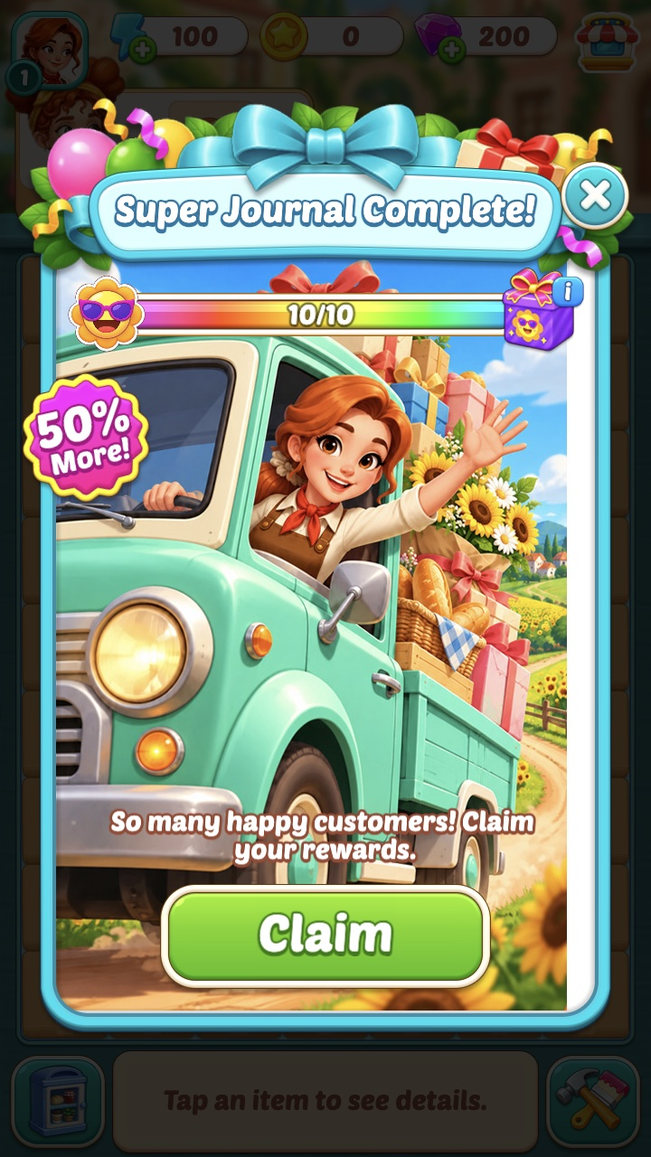
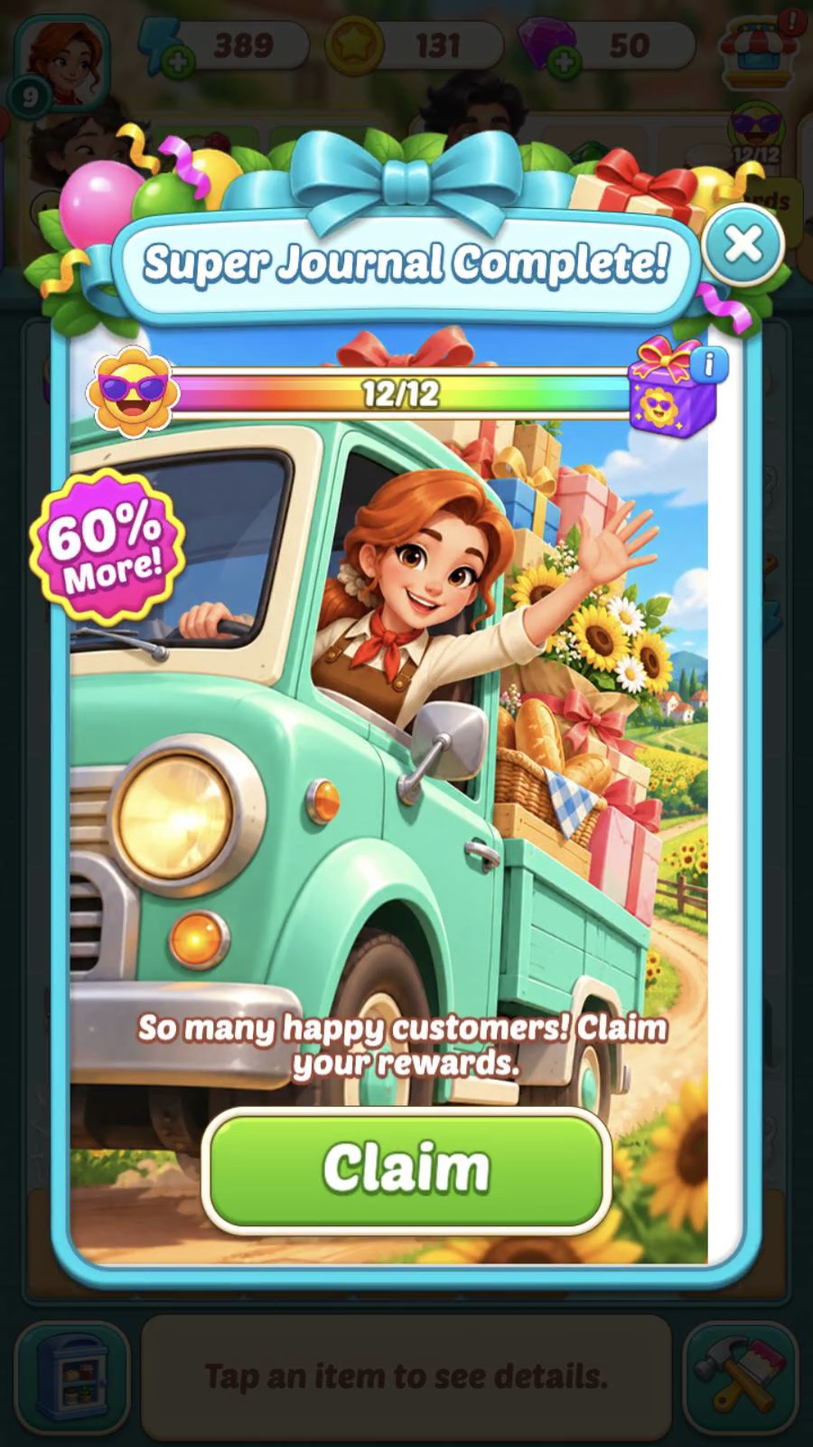
[Max] 팝업 아트 현황 오더 러시 현재 캡처 실제 플레이 프레임으로 교체

diff --git a/docs/story-merge-popup-art-need.html b/docs/story-merge-popup-art-need.html
@@ -110,7 +110,7 @@
 
       <section class="doc-section" id="g-lo-done" data-g="lo-done">
         <h2 class="doc-h2">교체 완료 <span class="doc-h2-sub">42종</span></h2>
-        <details class="pa-grp" open><summary><span class="pa-grp-n">오더 러시</span><span class="pa-grp-c">4종</span></summary><p class="pa-hold">캡처: QA 봇 11-26 · 새 계정 · 프리뷰 강제 오픈(PopupOrderRushStart 안내 · 달성 / PopupOrderRushSuperStart 슈퍼 달성 / PopupOrderRushStage 슈퍼 시작, 더미 값) · 클라 d60fe3cc · 판정 4/4 상태 레거시 0 (딤 제외) · 가이드 프리팹 2종 렌더 11-26 · 슈퍼 시작은 가이드 프리팹 없음 · 와이어프레임은 웹 기획서 화면 기획서 v1.34 RR 번호 · 원작 참고는 수집 안 함 · 보드 · 칩 · 연출 · 툴팁(RR-02/03/04/05/07/09/10/12/14)은 팝업이 아니라 뺌 · 일반 단계 재시작(RR-13 Begin)도 뺌</p><div class="pa-item" id="LO_rush_01"><h3 class="pa-h">RR-01 시작 팝업 <code>LO_rush_01</code> <span class="pill" style="--acc: var(--ok)">교체 완료</span></h3><div class="pa-cols"><div class="pa-col"><div class="pa-lbl">현재</div><figure class="shot"><img loading="lazy" src="img/popup-art/after__OrderRush_Info.jpg" alt="현재"><figcaption>QA 봇 · 11-26 · 새 계정 · 강제 오픈(더미 값) · info</figcaption></figure></div><div class="pa-col"><div class="pa-lbl">아트 가이드</div><figure class="shot"><img loading="lazy" src="img/popup-art/gpf__OrderRushStart__0.jpg" alt="아트 가이드"><figcaption>guide_Popup_Rosie's_Order_Journal_pop · 프리팹 렌더 11-26</figcaption></figure></div><div class="pa-col"><div class="pa-lbl">와이어프레임 (웹 기획서 v1.34)</div><figure class="shot"><img loading="lazy" src="img/popup-art/ded16b5e0cd95243.jpg" alt="와이어프레임 (웹 기획서 v1.34)"><figcaption>로지의 주문 수첩 · RR-01 이벤트 안내 팝업</figcaption></figure></div></div></div><div class="pa-item" id="LO_rush_02"><h3 class="pa-h">RR-08 슈퍼 시작 팝업 <code>LO_rush_02</code> <span class="pill" style="--acc: var(--ok)">교체 완료</span></h3><div class="pa-cols"><div class="pa-col"><div class="pa-lbl">현재</div><figure class="shot"><img loading="lazy" src="img/popup-art/after__OrderRush_SuperStart.jpg" alt="현재"><figcaption>QA 봇 · 11-26 · 새 계정 · 강제 오픈(더미 값) · superStart · 우상단 Rewards ready! 말풍선은 팝업이 아니라 인게임 칩</figcaption></figure></div><div class="pa-col"><div class="pa-lbl">아트 가이드</div><div class="pa-empty">가이드 프리팹 없음</div></div><div class="pa-col"><div class="pa-lbl">와이어프레임 (웹 기획서 v1.34)</div><figure class="shot"><img loading="lazy" src="img/popup-art/6df3421f490daf9d.jpg" alt="와이어프레임 (웹 기획서 v1.34)"><figcaption>로지의 주문 수첩 · RR-08 슈퍼 단계 시작 안내</figcaption></figure></div></div></div><div class="pa-item" id="LO_rush_03"><h3 class="pa-h">RR-06 전환 팝업 <code>LO_rush_03</code> <span class="pill" style="--acc: var(--ok)">교체 완료</span></h3><div class="pa-cols"><div class="pa-col"><div class="pa-lbl">현재</div><figure class="shot"><img loading="lazy" src="img/popup-art/after__OrderRush_Complete.jpg" alt="현재"><figcaption>QA 봇 · 11-26 · 새 계정 · 강제 오픈(더미 값) · complete</figcaption></figure></div><div class="pa-col"><div class="pa-lbl">아트 가이드</div><figure class="shot"><img loading="lazy" src="img/popup-art/gpf__OrderRushStart__0.jpg" alt="아트 가이드"><figcaption>guide_Popup_Rosie's_Order_Journal_pop · 프리팹 렌더 11-26 (같은 프리팹, 문구만 다름)</figcaption></figure></div><div class="pa-col"><div class="pa-lbl">와이어프레임 (웹 기획서 v1.34)</div><figure class="shot"><img loading="lazy" src="img/popup-art/cbba7b70822f6b88.jpg" alt="와이어프레임 (웹 기획서 v1.34)"><figcaption>로지의 주문 수첩 · RR-06 목표 달성 팝업 · 보상 수령</figcaption></figure></div></div></div><div class="pa-item" id="LO_rush_04"><h3 class="pa-h">RR-11 슈퍼 전환 팝업 <code>LO_rush_04</code> <span class="pill" style="--acc: var(--ok)">교체 완료</span></h3><div class="pa-cols"><div class="pa-col"><div class="pa-lbl">현재</div><figure class="shot"><img loading="lazy" src="img/popup-art/after__OrderRush_SuperComplete.jpg" alt="현재"><figcaption>QA 봇 · 11-26 · 새 계정 · 강제 오픈(더미 값) · superComplete</figcaption></figure></div><div class="pa-col"><div class="pa-lbl">아트 가이드</div><figure class="shot"><img loading="lazy" src="img/popup-art/gpf__OrderRushSuperComplete__0.jpg" alt="아트 가이드"><figcaption>guide_Popup_Rosie's_Order_Journal_super_pop · 프리팹 렌더 11-26</figcaption></figure></div><div class="pa-col"><div class="pa-lbl">와이어프레임 (웹 기획서 v1.34)</div><figure class="shot"><img loading="lazy" src="img/popup-art/74b2749e15a4dfdd.jpg" alt="와이어프레임 (웹 기획서 v1.34)"><figcaption>로지의 주문 수첩 · RR-11 슈퍼 달성 팝업 · 보상 수령</figcaption></figure></div></div></div></details>
+        <details class="pa-grp" open><summary><span class="pa-grp-n">오더 러시</span><span class="pa-grp-c">4종</span></summary><p class="pa-hold">캡처: QA 봇 11-26 · 오더 러시 전체 플로우 녹화(실제 흐름: 참가 안내 -> 납품 -> 칩 탭 -> 달성 -> Claim -> 슈퍼 시작 -> 슈퍼 달성)에서 팝업이 뜬 프레임 · 시드는 스마일 수치 · 납품 요구품뿐 · 클라 d60fe3cc · 판정은 강제 오픈 4/4 상태 레거시 0 (딤 제외) · 가이드 프리팹 2종 렌더 11-26 · 슈퍼 시작은 가이드 프리팹 없음 · 와이어프레임은 웹 기획서 화면 기획서 v1.34 RR 번호 · 원작 참고는 수집 안 함 · 보드 · 칩 · 연출 · 툴팁(RR-02/03/04/05/07/09/10/12/14)은 팝업이 아니라 뺌 · 일반 단계 재시작(RR-13 Begin)도 뺌</p><div class="pa-item" id="LO_rush_01"><h3 class="pa-h">RR-01 시작 팝업 <code>LO_rush_01</code> <span class="pill" style="--acc: var(--ok)">교체 완료</span></h3><div class="pa-cols"><div class="pa-col"><div class="pa-lbl">현재</div><figure class="shot"><img loading="lazy" src="img/popup-art/after__OrderRush_Info.jpg" alt="현재"><figcaption>QA 봇 · 11-26 · 실제 플레이 흐름 녹화에서 뽑은 프레임 · info</figcaption></figure></div><div class="pa-col"><div class="pa-lbl">아트 가이드</div><figure class="shot"><img loading="lazy" src="img/popup-art/gpf__OrderRushStart__0.jpg" alt="아트 가이드"><figcaption>guide_Popup_Rosie's_Order_Journal_pop · 프리팹 렌더 11-26</figcaption></figure></div><div class="pa-col"><div class="pa-lbl">와이어프레임 (웹 기획서 v1.34)</div><figure class="shot"><img loading="lazy" src="img/popup-art/ded16b5e0cd95243.jpg" alt="와이어프레임 (웹 기획서 v1.34)"><figcaption>로지의 주문 수첩 · RR-01 이벤트 안내 팝업</figcaption></figure></div></div></div><div class="pa-item" id="LO_rush_02"><h3 class="pa-h">RR-08 슈퍼 시작 팝업 <code>LO_rush_02</code> <span class="pill" style="--acc: var(--ok)">교체 완료</span></h3><div class="pa-cols"><div class="pa-col"><div class="pa-lbl">현재</div><figure class="shot"><img loading="lazy" src="img/popup-art/after__OrderRush_SuperStart.jpg" alt="현재"><figcaption>QA 봇 · 11-26 · 실제 플레이 흐름 녹화에서 뽑은 프레임 · superStart · 우상단 Rewards ready! 말풍선은 팝업이 아니라 인게임 칩</figcaption></figure></div><div class="pa-col"><div class="pa-lbl">아트 가이드</div><div class="pa-empty">가이드 프리팹 없음</div></div><div class="pa-col"><div class="pa-lbl">와이어프레임 (웹 기획서 v1.34)</div><figure class="shot"><img loading="lazy" src="img/popup-art/6df3421f490daf9d.jpg" alt="와이어프레임 (웹 기획서 v1.34)"><figcaption>로지의 주문 수첩 · RR-08 슈퍼 단계 시작 안내</figcaption></figure></div></div></div><div class="pa-item" id="LO_rush_03"><h3 class="pa-h">RR-06 전환 팝업 <code>LO_rush_03</code> <span class="pill" style="--acc: var(--ok)">교체 완료</span></h3><div class="pa-cols"><div class="pa-col"><div class="pa-lbl">현재</div><figure class="shot"><img loading="lazy" src="img/popup-art/after__OrderRush_Complete.jpg" alt="현재"><figcaption>QA 봇 · 11-26 · 실제 플레이 흐름 녹화에서 뽑은 프레임 · complete</figcaption></figure></div><div class="pa-col"><div class="pa-lbl">아트 가이드</div><figure class="shot"><img loading="lazy" src="img/popup-art/gpf__OrderRushStart__0.jpg" alt="아트 가이드"><figcaption>guide_Popup_Rosie's_Order_Journal_pop · 프리팹 렌더 11-26 (같은 프리팹, 문구만 다름)</figcaption></figure></div><div class="pa-col"><div class="pa-lbl">와이어프레임 (웹 기획서 v1.34)</div><figure class="shot"><img loading="lazy" src="img/popup-art/cbba7b70822f6b88.jpg" alt="와이어프레임 (웹 기획서 v1.34)"><figcaption>로지의 주문 수첩 · RR-06 목표 달성 팝업 · 보상 수령</figcaption></figure></div></div></div><div class="pa-item" id="LO_rush_04"><h3 class="pa-h">RR-11 슈퍼 전환 팝업 <code>LO_rush_04</code> <span class="pill" style="--acc: var(--ok)">교체 완료</span></h3><div class="pa-cols"><div class="pa-col"><div class="pa-lbl">현재</div><figure class="shot"><img loading="lazy" src="img/popup-art/after__OrderRush_SuperComplete.jpg" alt="현재"><figcaption>QA 봇 · 11-26 · 실제 플레이 흐름 녹화에서 뽑은 프레임 · superComplete</figcaption></figure></div><div class="pa-col"><div class="pa-lbl">아트 가이드</div><figure class="shot"><img loading="lazy" src="img/popup-art/gpf__OrderRushSuperComplete__0.jpg" alt="아트 가이드"><figcaption>guide_Popup_Rosie's_Order_Journal_super_pop · 프리팹 렌더 11-26</figcaption></figure></div><div class="pa-col"><div class="pa-lbl">와이어프레임 (웹 기획서 v1.34)</div><figure class="shot"><img loading="lazy" src="img/popup-art/74b2749e15a4dfdd.jpg" alt="와이어프레임 (웹 기획서 v1.34)"><figcaption>로지의 주문 수첩 · RR-11 슈퍼 달성 팝업 · 보상 수령</figcaption></figure></div></div></div></details>
         <details class="pa-grp" open><summary><span class="pa-grp-n">공방 수레 경주</span><span class="pa-grp-c">10종</span></summary><p class="pa-hold">캡처: QA 봇 11-19 · 새 계정 · 프리뷰 강제 오픈(PopupRace · PopupRaceStart · PopupRaceHowTo · PopupBoxReward 보상 수령 · 머지 점수 문구, 더미 값) · 클라 1faf49d0 + 미커밋 작업 · 판정 16/16 상태 레거시 0 (딤 제외) · 가이드 프리팹 4종 렌더 11-19 · 머지 점수 문구(197)는 가이드 프리팹 없음</p><div class="pa-item" id="LO_cart_01"><h3 class="pa-h">193 이벤트 시작 <code>LO_cart_01</code> <span class="pill" style="--acc: var(--ok)">교체 완료</span></h3><div class="pa-cols"><div class="pa-col"><div class="pa-lbl">현재</div><figure class="shot"><img loading="lazy" src="img/popup-art/after__Race_Start.jpg" alt="현재"><figcaption>QA 봇 · 11-19 · 새 계정 · 강제 오픈(더미 값)</figcaption></figure></div><div class="pa-col"><div class="pa-lbl">아트 가이드</div><figure class="shot"><img loading="lazy" src="img/popup-art/gpf__RaceStart__0.jpg" alt="아트 가이드"><figcaption>guide_Popup_rosewood_cart_race_start · 프리팹 렌더 11-19</figcaption></figure></div><div class="pa-col"><div class="pa-lbl">와이어프레임 (웹 기획서 10-25판)</div><figure class="shot"><img loading="lazy" src="img/popup-art/e87f1d6fa0e762e9.jpg" alt="와이어프레임 (웹 기획서 10-25판)"><figcaption>공방 수레 경주 · 193 이벤트 시작</figcaption></figure></div><div class="pa-col"><div class="pa-lbl">원작 참고</div><figure class="shot"><img loading="lazy" src="img/popup-art/8e1e5974a9ec1ba3.jpg" alt="원작 참고"><figcaption>원작 참고</figcaption></figure></div></div></div><div class="pa-item" id="LO_cart_02"><h3 class="pa-h">194 진행 방법 <code>LO_cart_02</code> <span class="pill" style="--acc: var(--ok)">교체 완료</span></h3><div class="pa-cols"><div class="pa-col"><div class="pa-lbl">현재</div><figure class="shot"><img loading="lazy" src="img/popup-art/after__Race_HowTo.jpg" alt="현재"><figcaption>QA 봇 · 11-19 · 새 계정 · 강제 오픈(더미 값)</figcaption></figure></div><div class="pa-col"><div class="pa-lbl">아트 가이드</div><figure class="shot"><img loading="lazy" src="img/popup-art/gpf__RaceHowTo__0.jpg" alt="아트 가이드"><figcaption>guide_Popup_rosewood_cart_race_howto · 프리팹 렌더 11-19</figcaption></figure></div><div class="pa-col"><div class="pa-lbl">와이어프레임 (웹 기획서 10-25판)</div><figure class="shot"><img loading="lazy" src="img/popup-art/a32aa325667d979b.jpg" alt="와이어프레임 (웹 기획서 10-25판)"><figcaption>공방 수레 경주 · 194 진행 방법</figcaption></figure></div><div class="pa-col"><div class="pa-lbl">원작 참고</div><figure class="shot"><img loading="lazy" src="img/popup-art/b28bee6a9d59f4a0.jpg" alt="원작 참고"><figcaption>원작 참고</figcaption></figure></div></div></div><div class="pa-item" id="LO_cart_03"><h3 class="pa-h">15 참가자 배치 <code>LO_cart_03</code> <span class="pill" style="--acc: var(--ok)">교체 완료</span></h3><div class="pa-cols"><div class="pa-col"><div class="pa-lbl">현재</div><figure class="shot"><img loading="lazy" src="img/popup-art/after__Race_Track_Wait.jpg" alt="현재"><figcaption>QA 봇 · 11-19 · 새 계정 · 강제 오픈(더미 값)</figcaption></figure></div><div class="pa-col"><div class="pa-lbl">아트 가이드</div><figure class="shot"><img loading="lazy" src="img/popup-art/gpf__RaceGame__0.jpg" alt="아트 가이드"><figcaption>guide_Popup_rosewood_cart_race_game · 프리팹 렌더 11-19</figcaption></figure></div><div class="pa-col"><div class="pa-lbl">와이어프레임 (웹 기획서 10-25판)</div><figure class="shot"><img loading="lazy" src="img/popup-art/fcc865399c904d79.jpg" alt="와이어프레임 (웹 기획서 10-25판)"><figcaption>공방 수레 경주 · 15 참가자 배치</figcaption></figure></div><div class="pa-col"><div class="pa-lbl">원작 참고</div><figure class="shot"><img loading="lazy" src="img/popup-art/657d9401828232a8.jpg" alt="원작 참고"><figcaption>원작 참고</figcaption></figure></div></div></div><div class="pa-item" id="LO_cart_04"><h3 class="pa-h">18 진행 <code>LO_cart_04</code> <span class="pill" style="--acc: var(--ok)">교체 완료</span></h3><div class="pa-cols"><div class="pa-col"><div class="pa-lbl">현재</div><figure class="shot"><img loading="lazy" src="img/popup-art/after__Race_Track_Run.jpg" alt="현재"><figcaption>QA 봇 · 11-19 · 새 계정 · 강제 오픈(더미 값) · 진행 중 점수 상태</figcaption></figure><figure class="shot"><img loading="lazy" src="img/popup-art/after__Race_Track_Bubble.jpg" alt="현재"><figcaption>QA 봇 · 11-19 · 새 계정 · 강제 오픈(더미 값) · 1위 상자를 눌러 보상 말풍선을 연 상태</figcaption></figure></div><div class="pa-col"><div class="pa-lbl">아트 가이드</div><figure class="shot"><img loading="lazy" src="img/popup-art/gpf__RaceGame__0.jpg" alt="아트 가이드"><figcaption>guide_Popup_rosewood_cart_race_game · 프리팹 렌더 11-19</figcaption></figure></div><div class="pa-col"><div class="pa-lbl">와이어프레임 (웹 기획서 10-25판)</div><figure class="shot"><img loading="lazy" src="img/popup-art/458a6ebece7de415.jpg" alt="와이어프레임 (웹 기획서 10-25판)"><figcaption>공방 수레 경주 · 18 진행</figcaption></figure></div><div class="pa-col"><div class="pa-lbl">원작 참고</div><figure class="shot"><img loading="lazy" src="img/popup-art/a37f45a411835faa.jpg" alt="원작 참고"><figcaption>원작 참고</figcaption></figure></div></div></div><div class="pa-item" id="LO_cart_05"><h3 class="pa-h">197 점수 획득 <code>LO_cart_05</code> <span class="pill" style="--acc: var(--ok)">교체 완료</span></h3><p class="pa-hold">머지할 때 칸 위에 뜨는 토큰 아이콘 + 점수 문구 · 가이드 프리팹 없음</p><div class="pa-cols"><div class="pa-col"><div class="pa-lbl">현재</div><figure class="shot"><img loading="lazy" src="img/popup-art/after__Race_MergeScore.jpg" alt="현재"><figcaption>QA 봇 · 11-19 · 새 계정 · 머지 점수 문구 강제 표시(+5, 더미 값) · 클라 미커밋 작업 반영</figcaption></figure></div><div class="pa-col"><div class="pa-lbl">아트 가이드</div><div class="pa-empty">가이드 프리팹 없음</div></div><div class="pa-col"><div class="pa-lbl">와이어프레임 (웹 기획서 10-25판)</div><figure class="shot"><img loading="lazy" src="img/popup-art/ea15af65700e3bf4.jpg" alt="와이어프레임 (웹 기획서 10-25판)"><figcaption>공방 수레 경주 · 197 점수 획득</figcaption></figure></div><div class="pa-col"><div class="pa-lbl">원작 참고</div><figure class="shot"><img loading="lazy" src="img/popup-art/5d54fc21d32e83c2.jpg" alt="원작 참고"><figcaption>원작 참고</figcaption></figure></div></div></div><div class="pa-item" id="LO_cart_06"><h3 class="pa-h">153 순위 확정 <code>LO_cart_06</code> <span class="pill" style="--acc: var(--ok)">교체 완료</span></h3><div class="pa-cols"><div class="pa-col"><div class="pa-lbl">현재</div><figure class="shot"><img loading="lazy" src="img/popup-art/after__Race_Track_Rank.jpg" alt="현재"><figcaption>QA 봇 · 11-19 · 새 계정 · 강제 오픈(더미 값) · 3명 도착 · 순위 레일 · 순위 상자</figcaption></figure></div><div class="pa-col"><div class="pa-lbl">아트 가이드</div><figure class="shot"><img loading="lazy" src="img/popup-art/gpf__RaceGame__0.jpg" alt="아트 가이드"><figcaption>guide_Popup_rosewood_cart_race_game · 프리팹 렌더 11-19</figcaption></figure></div><div class="pa-col"><div class="pa-lbl">와이어프레임 (웹 기획서 10-25판)</div><figure class="shot"><img loading="lazy" src="img/popup-art/d6db3491e0efc9c2.jpg" alt="와이어프레임 (웹 기획서 10-25판)"><figcaption>공방 수레 경주 · 153 순위 확정</figcaption></figure></div><div class="pa-col"><div class="pa-lbl">원작 참고</div><figure class="shot"><img loading="lazy" src="img/popup-art/15899aa27c846ef2.jpg" alt="원작 참고"><figcaption>원작 참고</figcaption></figure></div></div></div><div class="pa-item" id="LO_cart_07"><h3 class="pa-h">19 보상 수령 <code>LO_cart_07</code> <span class="pill" style="--acc: var(--ok)">교체 완료</span></h3><div class="pa-cols"><div class="pa-col"><div class="pa-lbl">현재</div><figure class="shot"><img loading="lazy" src="img/popup-art/after__Race_Reward.jpg" alt="현재"><figcaption>QA 봇 · 11-19 · 새 계정 · 강제 오픈(더미 값)</figcaption></figure></div><div class="pa-col"><div class="pa-lbl">아트 가이드</div><figure class="shot"><img loading="lazy" src="img/popup-art/gpf__RaceReward__0.jpg" alt="아트 가이드"><figcaption>guide_Popup_rosewood_cart_race_reward · 프리팹 렌더 11-19</figcaption></figure></div><div class="pa-col"><div class="pa-lbl">와이어프레임 (웹 기획서 10-25판)</div><figure class="shot"><img loading="lazy" src="img/popup-art/27f3da3f89acdf4f.jpg" alt="와이어프레임 (웹 기획서 10-25판)"><figcaption>공방 수레 경주 · 19 보상 수령</figcaption></figure></div><div class="pa-col"><div class="pa-lbl">원작 참고</div><figure class="shot"><img loading="lazy" src="img/popup-art/56f8d067cec97025.jpg" alt="원작 참고"><figcaption>원작 참고</figcaption></figure></div></div></div><div class="pa-item" id="LO_cart_08"><h3 class="pa-h">198 다음 라운드 시작 <code>LO_cart_08</code> <span class="pill" style="--acc: var(--ok)">교체 완료</span></h3><div class="pa-cols"><div class="pa-col"><div class="pa-lbl">현재</div><figure class="shot"><img loading="lazy" src="img/popup-art/after__Race_NextRound.jpg" alt="현재"><figcaption>QA 봇 · 11-19 · 새 계정 · 강제 오픈(더미 값)</figcaption></figure></div><div class="pa-col"><div class="pa-lbl">아트 가이드</div><figure class="shot"><img loading="lazy" src="img/popup-art/gpf__RaceStart__0.jpg" alt="아트 가이드"><figcaption>guide_Popup_rosewood_cart_race_start · 프리팹 렌더 11-19</figcaption></figure></div><div class="pa-col"><div class="pa-lbl">와이어프레임 (웹 기획서 10-25판)</div><figure class="shot"><img loading="lazy" src="img/popup-art/46f639c9a84bd0e2.jpg" alt="와이어프레임 (웹 기획서 10-25판)"><figcaption>공방 수레 경주 · 198 다음 라운드 시작</figcaption></figure></div><div class="pa-col"><div class="pa-lbl">원작 참고</div><figure class="shot"><img loading="lazy" src="img/popup-art/1265ebe7c74a9f32.jpg" alt="원작 참고"><figcaption>원작 참고</figcaption></figure></div></div></div><div class="pa-item" id="LO_cart_09"><h3 class="pa-h">199 다음 라운드 배치 <code>LO_cart_09</code> <span class="pill" style="--acc: var(--ok)">교체 완료</span></h3><div class="pa-cols"><div class="pa-col"><div class="pa-lbl">현재</div><figure class="shot"><img loading="lazy" src="img/popup-art/after__Race_Track_NextRound.jpg" alt="현재"><figcaption>QA 봇 · 11-19 · 새 계정 · 강제 오픈(더미 값)</figcaption></figure></div><div class="pa-col"><div class="pa-lbl">아트 가이드</div><figure class="shot"><img loading="lazy" src="img/popup-art/gpf__RaceGame__0.jpg" alt="아트 가이드"><figcaption>guide_Popup_rosewood_cart_race_game · 프리팹 렌더 11-19</figcaption></figure></div><div class="pa-col"><div class="pa-lbl">와이어프레임 (웹 기획서 10-25판)</div><figure class="shot"><img loading="lazy" src="img/popup-art/3bd345f6e61a5a8b.jpg" alt="와이어프레임 (웹 기획서 10-25판)"><figcaption>공방 수레 경주 · 199 다음 라운드 배치</figcaption></figure></div><div class="pa-col"><div class="pa-lbl">원작 참고</div><figure class="shot"><img loading="lazy" src="img/popup-art/c01e99975705889d.jpg" alt="원작 참고"><figcaption>원작 참고</figcaption></figure></div></div></div><div class="pa-item" id="LO_cart_10"><h3 class="pa-h">21 이벤트 종료 / 전체 라운드 결과 <code>LO_cart_10</code> <span class="pill" style="--acc: var(--ok)">교체 완료</span></h3><div class="pa-cols"><div class="pa-col"><div class="pa-lbl">현재</div><figure class="shot"><img loading="lazy" src="img/popup-art/after__Race_Over.jpg" alt="현재"><figcaption>QA 봇 · 11-19 · 새 계정 · 강제 오픈(더미 값)</figcaption></figure></div><div class="pa-col"><div class="pa-lbl">아트 가이드</div><figure class="shot"><img loading="lazy" src="img/popup-art/gpf__RaceStart__0.jpg" alt="아트 가이드"><figcaption>guide_Popup_rosewood_cart_race_start · 프리팹 렌더 11-19</figcaption></figure></div><div class="pa-col"><div class="pa-lbl">와이어프레임 (웹 기획서 10-25판)</div><figure class="shot"><img loading="lazy" src="img/popup-art/1d1e034f2191a1cb.jpg" alt="와이어프레임 (웹 기획서 10-25판)"><figcaption>공방 수레 경주 · 21 이벤트 종료 / 전체 라운드 결과</figcaption></figure></div><div class="pa-col"><div class="pa-lbl">원작 참고</div><figure class="shot"><img loading="lazy" src="img/popup-art/882f166f2e8f7492.jpg" alt="원작 참고"><figcaption>원작 참고</figcaption></figure></div></div></div></details>
         <details class="pa-grp" open><summary><span class="pa-grp-n">다이앤 마켓</span><span class="pa-grp-c">10종</span></summary><p class="pa-hold">캡처: QA 봇 11-24 · 새 계정 · 프리뷰 강제 오픈(PopupMarketStackUp · PopupMarketStackUpStart · PopupRaceHowTo · PopupBoxReward 보상 수령 · 머지 점수 문구, 더미 값) · 클라 bbcd5999 + 미커밋 작업 · 판정 12/12 상태 레거시 0 (딤 제외) · 가이드 프리팹 4종 렌더 11-24 · 머지 점수 문구(197)는 가이드 프리팹 없음 · 와이어프레임 · 원작 참고는 수집 안 함(제목 번호는 공방 수레 경주 기획서 화면 번호, 같은 5인전 흐름)</p><div class="pa-item" id="LO_market_01"><h3 class="pa-h">193 이벤트 시작 <code>LO_market_01</code> <span class="pill" style="--acc: var(--ok)">교체 완료</span></h3><div class="pa-cols"><div class="pa-col"><div class="pa-lbl">현재</div><figure class="shot"><img loading="lazy" src="img/popup-art/after__MarketStackUp_Start.jpg" alt="현재"><figcaption>QA 봇 · 11-24 · 새 계정 · 강제 오픈(더미 값)</figcaption></figure></div><div class="pa-col"><div class="pa-lbl">아트 가이드</div><figure class="shot"><img loading="lazy" src="img/popup-art/gpf__MarketStackUpStart__0.jpg" alt="아트 가이드"><figcaption>guide_Popup_dianemarket_start · 프리팹 렌더 11-24</figcaption></figure></div><div class="pa-col"><div class="pa-lbl">와이어프레임</div><div class="pa-empty">와이어 없음</div></div></div></div><div class="pa-item" id="LO_market_02"><h3 class="pa-h">194 진행 방법 <code>LO_market_02</code> <span class="pill" style="--acc: var(--ok)">교체 완료</span></h3><div class="pa-cols"><div class="pa-col"><div class="pa-lbl">현재</div><figure class="shot"><img loading="lazy" src="img/popup-art/after__MarketStackUp_HowTo.jpg" alt="현재"><figcaption>QA 봇 · 11-24 · 새 계정 · 강제 오픈(더미 값)</figcaption></figure></div><div class="pa-col"><div class="pa-lbl">아트 가이드</div><figure class="shot"><img loading="lazy" src="img/popup-art/gpf__MarketStackUpHowTo__0.jpg" alt="아트 가이드"><figcaption>guide_Popup_dianemarket_howto · 프리팹 렌더 11-24</figcaption></figure></div><div class="pa-col"><div class="pa-lbl">와이어프레임</div><div class="pa-empty">와이어 없음</div></div></div></div><div class="pa-item" id="LO_market_03"><h3 class="pa-h">15 참가자 배치 <code>LO_market_03</code> <span class="pill" style="--acc: var(--ok)">교체 완료</span></h3><div class="pa-cols"><div class="pa-col"><div class="pa-lbl">현재</div><figure class="shot"><img loading="lazy" src="img/popup-art/after__MarketStackUp_Track_Wait.jpg" alt="현재"><figcaption>QA 봇 · 11-24 · 새 계정 · 강제 오픈(더미 값)</figcaption></figure></div><div class="pa-col"><div class="pa-lbl">아트 가이드</div><figure class="shot"><img loading="lazy" src="img/popup-art/gpf__MarketStackUpGame__0.jpg" alt="아트 가이드"><figcaption>guide_Popup_dianemarket_game · 프리팹 렌더 11-24</figcaption></figure></div><div class="pa-col"><div class="pa-lbl">와이어프레임</div><div class="pa-empty">와이어 없음</div></div></div></div><div class="pa-item" id="LO_market_04"><h3 class="pa-h">18 진행 <code>LO_market_04</code> <span class="pill" style="--acc: var(--ok)">교체 완료</span></h3><div class="pa-cols"><div class="pa-col"><div class="pa-lbl">현재</div><figure class="shot"><img loading="lazy" src="img/popup-art/after__MarketStackUp_Track_Run.jpg" alt="현재"><figcaption>QA 봇 · 11-24 · 새 계정 · 강제 오픈(더미 값) · 진행 중 점수 상태</figcaption></figure><figure class="shot"><img loading="lazy" src="img/popup-art/after__MarketStackUp_Track_Bubble.jpg" alt="현재"><figcaption>QA 봇 · 11-24 · 새 계정 · 강제 오픈(더미 값) · 1위 상자를 눌러 보상 말풍선을 연 상태</figcaption></figure></div><div class="pa-col"><div class="pa-lbl">아트 가이드</div><figure class="shot"><img loading="lazy" src="img/popup-art/gpf__MarketStackUpGame__0.jpg" alt="아트 가이드"><figcaption>guide_Popup_dianemarket_game · 프리팹 렌더 11-24</figcaption></figure></div><div class="pa-col"><div class="pa-lbl">와이어프레임</div><div class="pa-empty">와이어 없음</div></div></div></div><div class="pa-item" id="LO_market_05"><h3 class="pa-h">197 점수 획득 <code>LO_market_05</code> <span class="pill" style="--acc: var(--ok)">교체 완료</span></h3><p class="pa-hold">머지할 때 칸 위에 뜨는 토큰 아이콘 + 점수 문구 · 가이드 프리팹 없음</p><div class="pa-cols"><div class="pa-col"><div class="pa-lbl">현재</div><figure class="shot"><img loading="lazy" src="img/popup-art/after__MarketStackUp_MergeScore.jpg" alt="현재"><figcaption>QA 봇 · 11-24 · 새 계정 · 머지 점수 문구 강제 표시(+5, 더미 값)</figcaption></figure></div><div class="pa-col"><div class="pa-lbl">아트 가이드</div><div class="pa-empty">가이드 프리팹 없음</div></div><div class="pa-col"><div class="pa-lbl">와이어프레임</div><div class="pa-empty">와이어 없음</div></div></div></div><div class="pa-item" id="LO_market_06"><h3 class="pa-h">153 순위 확정 <code>LO_market_06</code> <span class="pill" style="--acc: var(--ok)">교체 완료</span></h3><div class="pa-cols"><div class="pa-col"><div class="pa-lbl">현재</div><figure class="shot"><img loading="lazy" src="img/popup-art/after__MarketStackUp_Track_Rank.jpg" alt="현재"><figcaption>QA 봇 · 11-24 · 새 계정 · 강제 오픈(더미 값) · 3명 도착 · 순위 레일 · 순위 상자</figcaption></figure></div><div class="pa-col"><div class="pa-lbl">아트 가이드</div><figure class="shot"><img loading="lazy" src="img/popup-art/gpf__MarketStackUpGame__0.jpg" alt="아트 가이드"><figcaption>guide_Popup_dianemarket_game · 프리팹 렌더 11-24</figcaption></figure></div><div class="pa-col"><div class="pa-lbl">와이어프레임</div><div class="pa-empty">와이어 없음</div></div></div></div><div class="pa-item" id="LO_market_07"><h3 class="pa-h">19 보상 수령 <code>LO_market_07</code> <span class="pill" style="--acc: var(--ok)">교체 완료</span></h3><div class="pa-cols"><div class="pa-col"><div class="pa-lbl">현재</div><figure class="shot"><img loading="lazy" src="img/popup-art/after__MarketStackUp_Reward.jpg" alt="현재"><figcaption>QA 봇 · 11-24 · 새 계정 · 강제 오픈(더미 값)</figcaption></figure></div><div class="pa-col"><div class="pa-lbl">아트 가이드</div><figure class="shot"><img loading="lazy" src="img/popup-art/gpf__MarketStackUpReward__0.jpg" alt="아트 가이드"><figcaption>guide_Popup_dianemarket_reward · 프리팹 렌더 11-24</figcaption></figure></div><div class="pa-col"><div class="pa-lbl">와이어프레임</div><div class="pa-empty">와이어 없음</div></div></div></div><div class="pa-item" id="LO_market_08"><h3 class="pa-h">198 다음 라운드 시작 <code>LO_market_08</code> <span class="pill" style="--acc: var(--ok)">교체 완료</span></h3><div class="pa-cols"><div class="pa-col"><div class="pa-lbl">현재</div><figure class="shot"><img loading="lazy" src="img/popup-art/after__MarketStackUp_NextRound.jpg" alt="현재"><figcaption>QA 봇 · 11-24 · 새 계정 · 강제 오픈(더미 값)</figcaption></figure></div><div class="pa-col"><div class="pa-lbl">아트 가이드</div><figure class="shot"><img loading="lazy" src="img/popup-art/gpf__MarketStackUpStart__0.jpg" alt="아트 가이드"><figcaption>guide_Popup_dianemarket_start · 프리팹 렌더 11-24</figcaption></figure></div><div class="pa-col"><div class="pa-lbl">와이어프레임</div><div class="pa-empty">와이어 없음</div></div></div></div><div class="pa-item" id="LO_market_09"><h3 class="pa-h">199 다음 라운드 배치 <code>LO_market_09</code> <span class="pill" style="--acc: var(--ok)">교체 완료</span></h3><div class="pa-cols"><div class="pa-col"><div class="pa-lbl">현재</div><figure class="shot"><img loading="lazy" src="img/popup-art/after__MarketStackUp_Track_NextRound.jpg" alt="현재"><figcaption>QA 봇 · 11-24 · 새 계정 · 강제 오픈(더미 값)</figcaption></figure></div><div class="pa-col"><div class="pa-lbl">아트 가이드</div><figure class="shot"><img loading="lazy" src="img/popup-art/gpf__MarketStackUpGame__0.jpg" alt="아트 가이드"><figcaption>guide_Popup_dianemarket_game · 프리팹 렌더 11-24</figcaption></figure></div><div class="pa-col"><div class="pa-lbl">와이어프레임</div><div class="pa-empty">와이어 없음</div></div></div></div><div class="pa-item" id="LO_market_10"><h3 class="pa-h">21 이벤트 종료 / 전체 라운드 결과 <code>LO_market_10</code> <span class="pill" style="--acc: var(--ok)">교체 완료</span></h3><div class="pa-cols"><div class="pa-col"><div class="pa-lbl">현재</div><figure class="shot"><img loading="lazy" src="img/popup-art/after__MarketStackUp_Over.jpg" alt="현재"><figcaption>QA 봇 · 11-24 · 새 계정 · 강제 오픈(더미 값)</figcaption></figure></div><div class="pa-col"><div class="pa-lbl">아트 가이드</div><figure class="shot"><img loading="lazy" src="img/popup-art/gpf__MarketStackUpStart__0.jpg" alt="아트 가이드"><figcaption>guide_Popup_dianemarket_start · 프리팹 렌더 11-24</figcaption></figure></div><div class="pa-col"><div class="pa-lbl">와이어프레임</div><div class="pa-empty">와이어 없음</div></div></div></div></details>
         <details class="pa-grp" open><summary><span class="pa-grp-n">주간 태스크</span><span class="pa-grp-c">3종</span></summary><div class="pa-item" id="PopupWeeklyTask"><h3 class="pa-h">주간 과제 <code>PopupWeeklyTask</code> <span class="pill" style="--acc: var(--ok)">교체 완료</span></h3><div class="pa-cols"><div class="pa-col"><div class="pa-lbl">현재</div><figure class="shot"><img loading="lazy" src="img/popup-art/after__PopupWeeklyTask.jpg" alt="현재"><figcaption>QA 봇 · 11-06 15:08 · 레벨 8 계정 · 클라 수정 반영</figcaption></figure></div><div class="pa-col"><div class="pa-lbl">아트 가이드</div><figure class="shot"><img loading="lazy" src="img/popup-art/gpf__PopupWeeklyTask__0.jpg" alt="아트 가이드"><figcaption>guide_Popup_daily_task · guide_daily_task_reward · 프리팹 렌더 11-06</figcaption></figure></div><div class="pa-col"><div class="pa-lbl">와이어프레임 (기획서)</div><div class="pa-empty">기획서에 화면 없음</div></div></div></div><div class="pa-item" id="LO_weekly_rail"><h3 class="pa-h">주간 목표 레일 카드 <code>WeeklyRailCard</code> <span class="pill" style="--acc: var(--ok)">교체 완료</span></h3><p class="pa-hold">전용 가이드 프리팹 없음(guide_ingame 안에 weekly_challenge 노드는 있음, 렌더 안 함)</p><div class="pa-cols"><div class="pa-col"><div class="pa-lbl">현재</div><figure class="shot"><img loading="lazy" src="img/popup-art/after__WeeklyRailCard_1124.jpg" alt="현재"><figcaption>QA 봇 · 11-24 · 새 계정(주간 해금 강제) · 인게임 레일 첫 자리 · 레거시 0</figcaption></figure></div><div class="pa-col"><div class="pa-lbl">아트 가이드</div><div class="pa-empty">가이드 프리팹 없음</div></div><div class="pa-col"><div class="pa-lbl">와이어프레임 (기획서)</div><div class="pa-empty">와이어 없음</div></div></div></div><div class="pa-item" id="LO_weekly_ticker"><h3 class="pa-h">주간 목표 전광판 · 진행 / 달성 <code>WeeklyTicker</code> <code>화면 65 · 66</code> <span class="pill" style="--acc: var(--ok)">교체 완료</span></h3><p class="pa-hold">전용 가이드 프리팹 없음(guide_lobby 안에 daily_task_clear 노드는 있음, 렌더 안 함)</p><div class="pa-cols"><div class="pa-col"><div class="pa-lbl">현재</div><figure class="shot"><img loading="lazy" src="img/popup-art/after__WeeklyTickerProgress_1124.jpg" alt="현재"><figcaption>QA 봇 · 11-24 · 진행 · 샘플 값(merge 12 → 30) · 레거시 0</figcaption></figure><figure class="shot"><img loading="lazy" src="img/popup-art/after__WeeklyTickerDone_1124.jpg" alt="현재"><figcaption>QA 봇 · 11-24 · 달성 · 샘플 값(merge 12 → 30) · 레거시 0</figcaption></figure></div><div class="pa-col"><div class="pa-lbl">아트 가이드</div><div class="pa-empty">가이드 프리팹 없음</div></div><div class="pa-col"><div class="pa-lbl">와이어프레임 (기획서)</div><figure class="shot"><img loading="lazy" src="img/popup-art/wire__spec__65.jpg" alt="와이어프레임 (기획서)"><figcaption>화면 65 · 전광판 진행 → 달성 알림</figcaption></figure><figure class="shot"><img loading="lazy" src="img/popup-art/wire__spec__66.jpg" alt="와이어프레임 (기획서)"><figcaption>화면 66 · 전광판 달성 알림</figcaption></figure></div></div></div></details></details>

diff --git a/index.html b/index.html
@@ -48,7 +48,7 @@
     <!-- data.js 는 문서를 추가할 때마다 바뀌는 유일한 파일이다. GitHub Pages 가
          Cache-Control: max-age=600 을 주므로 버스터가 없으면 새 카드가 최대 10분간
          안 보인다. 날짜 버스터를 쓰고, data.js 의 SITE.updated 와 같은 값으로 맞춘다. -->
-    <script src="data.js?v=202611261740"></script>
+    <script src="data.js?v=202611261752"></script>
     <script src="app.js?v=proj8"></script>
   </body>
 </html>

diff --git a/data.js b/data.js
@@ -135,7 +135,7 @@ const SECTIONS = [
         project: "smg",
         status: "초안",
         version: "55462e02",
-        updated: "2026-11-26 17:40",
+        updated: "2026-11-26 17:52",
         pinned: false,
         tags: ["story-merge", "팝업", "아트", "라이브옵스"],
       },
